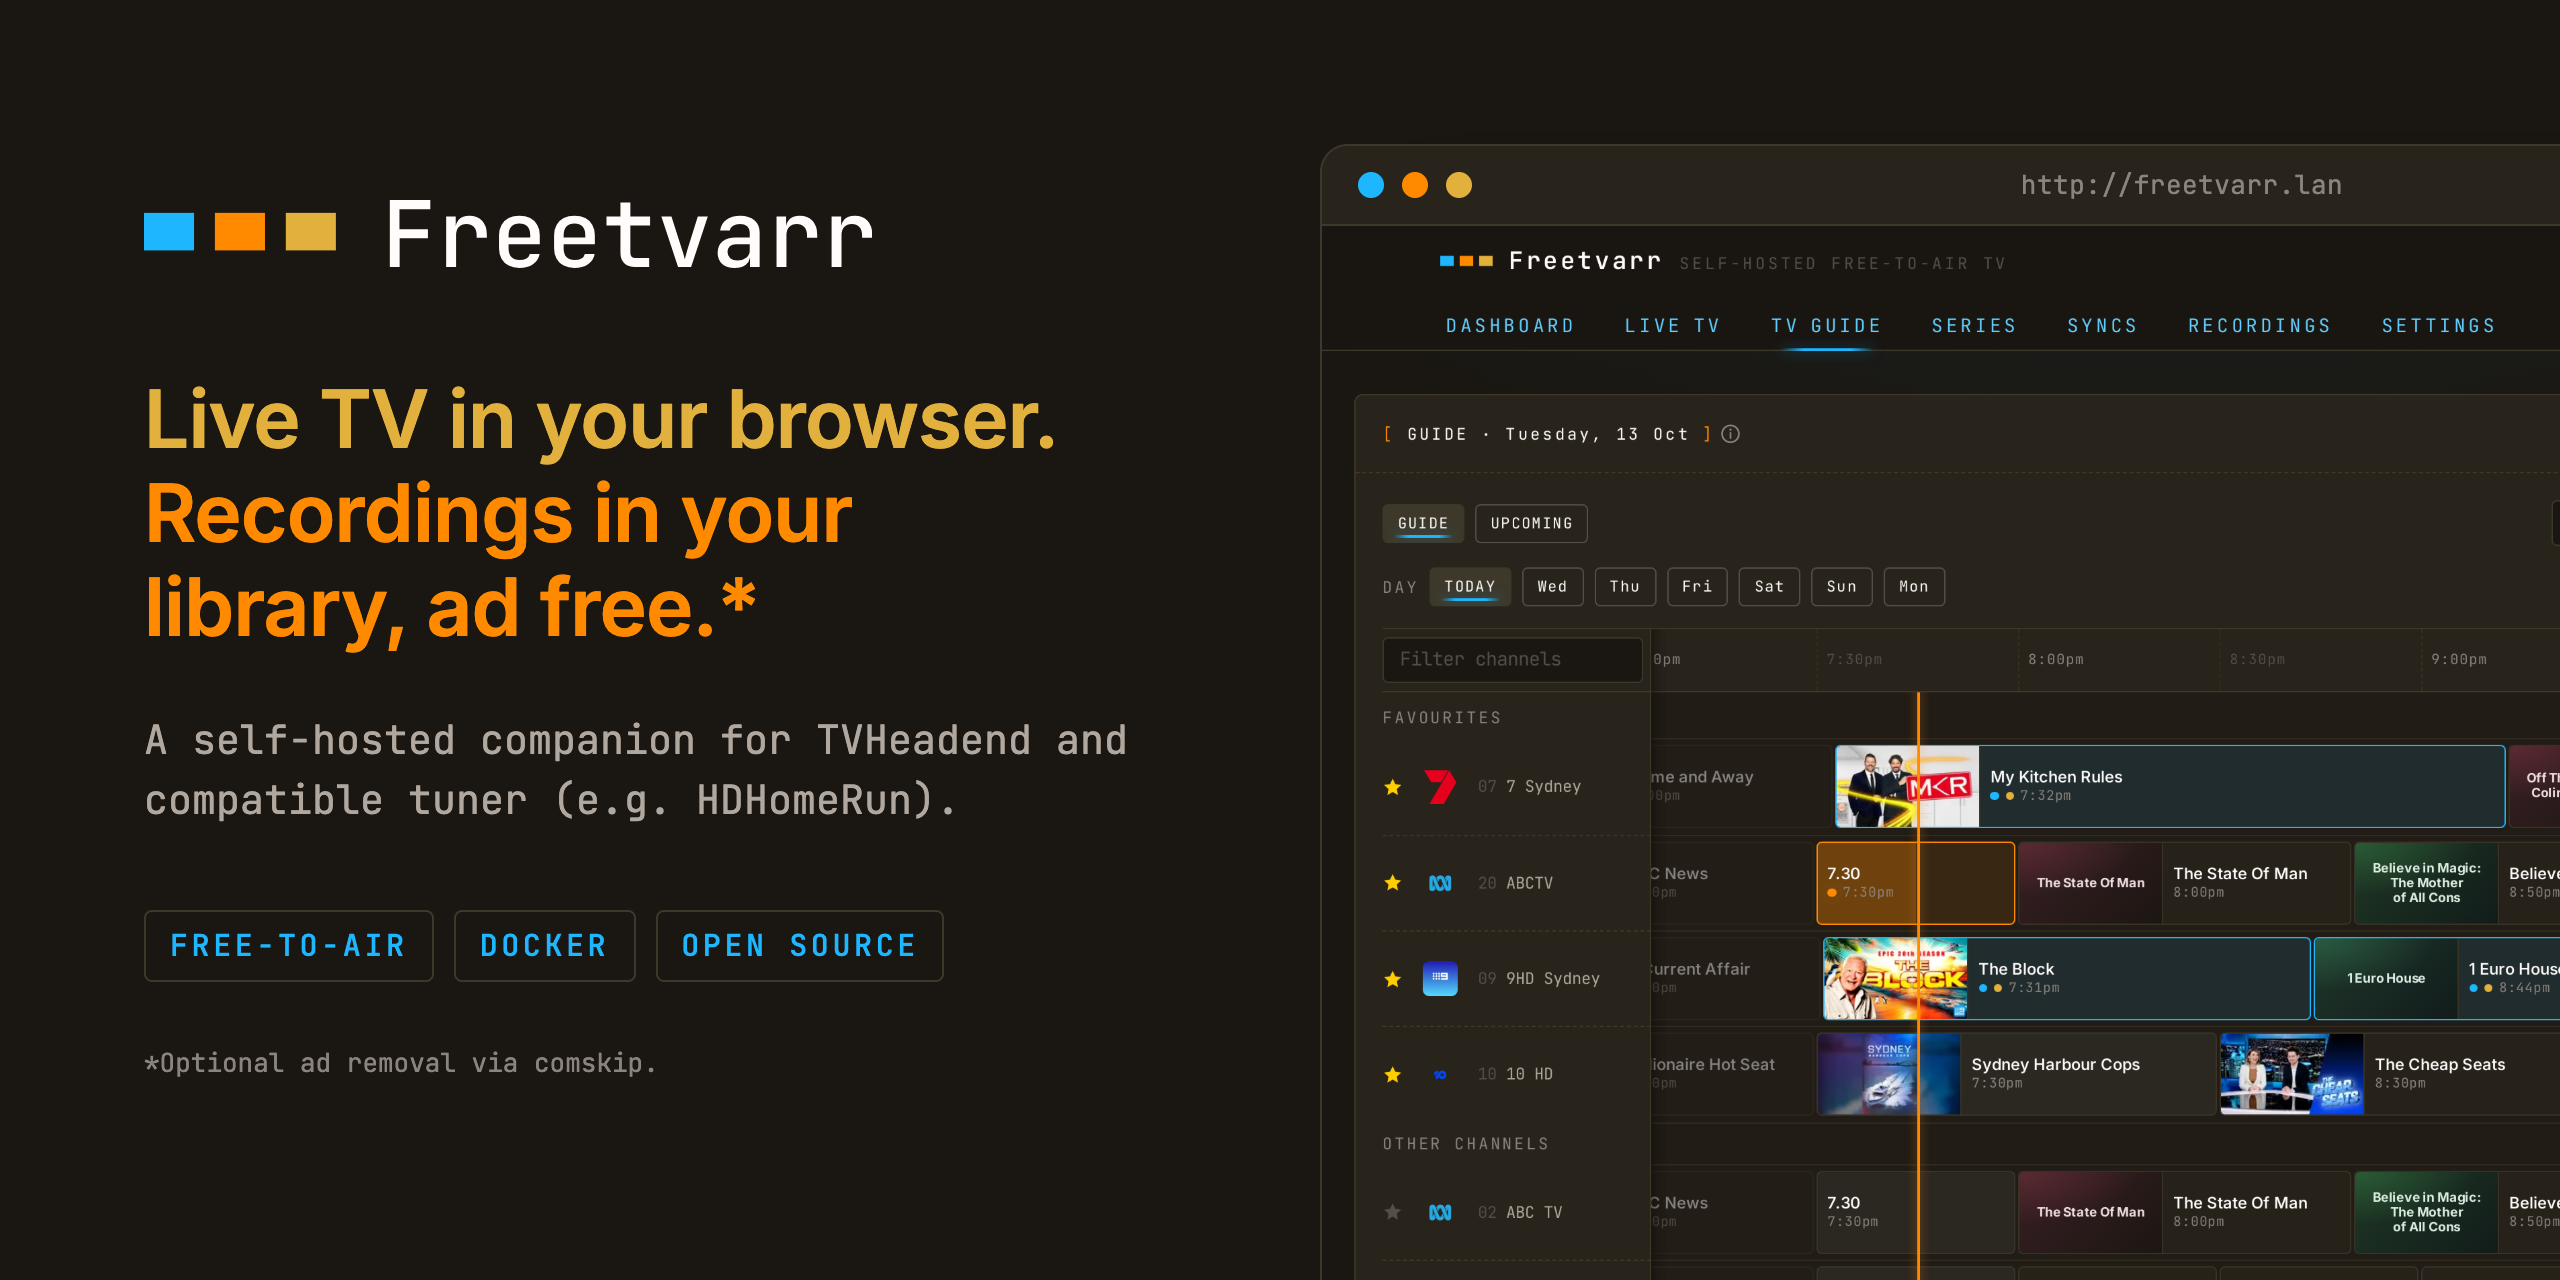
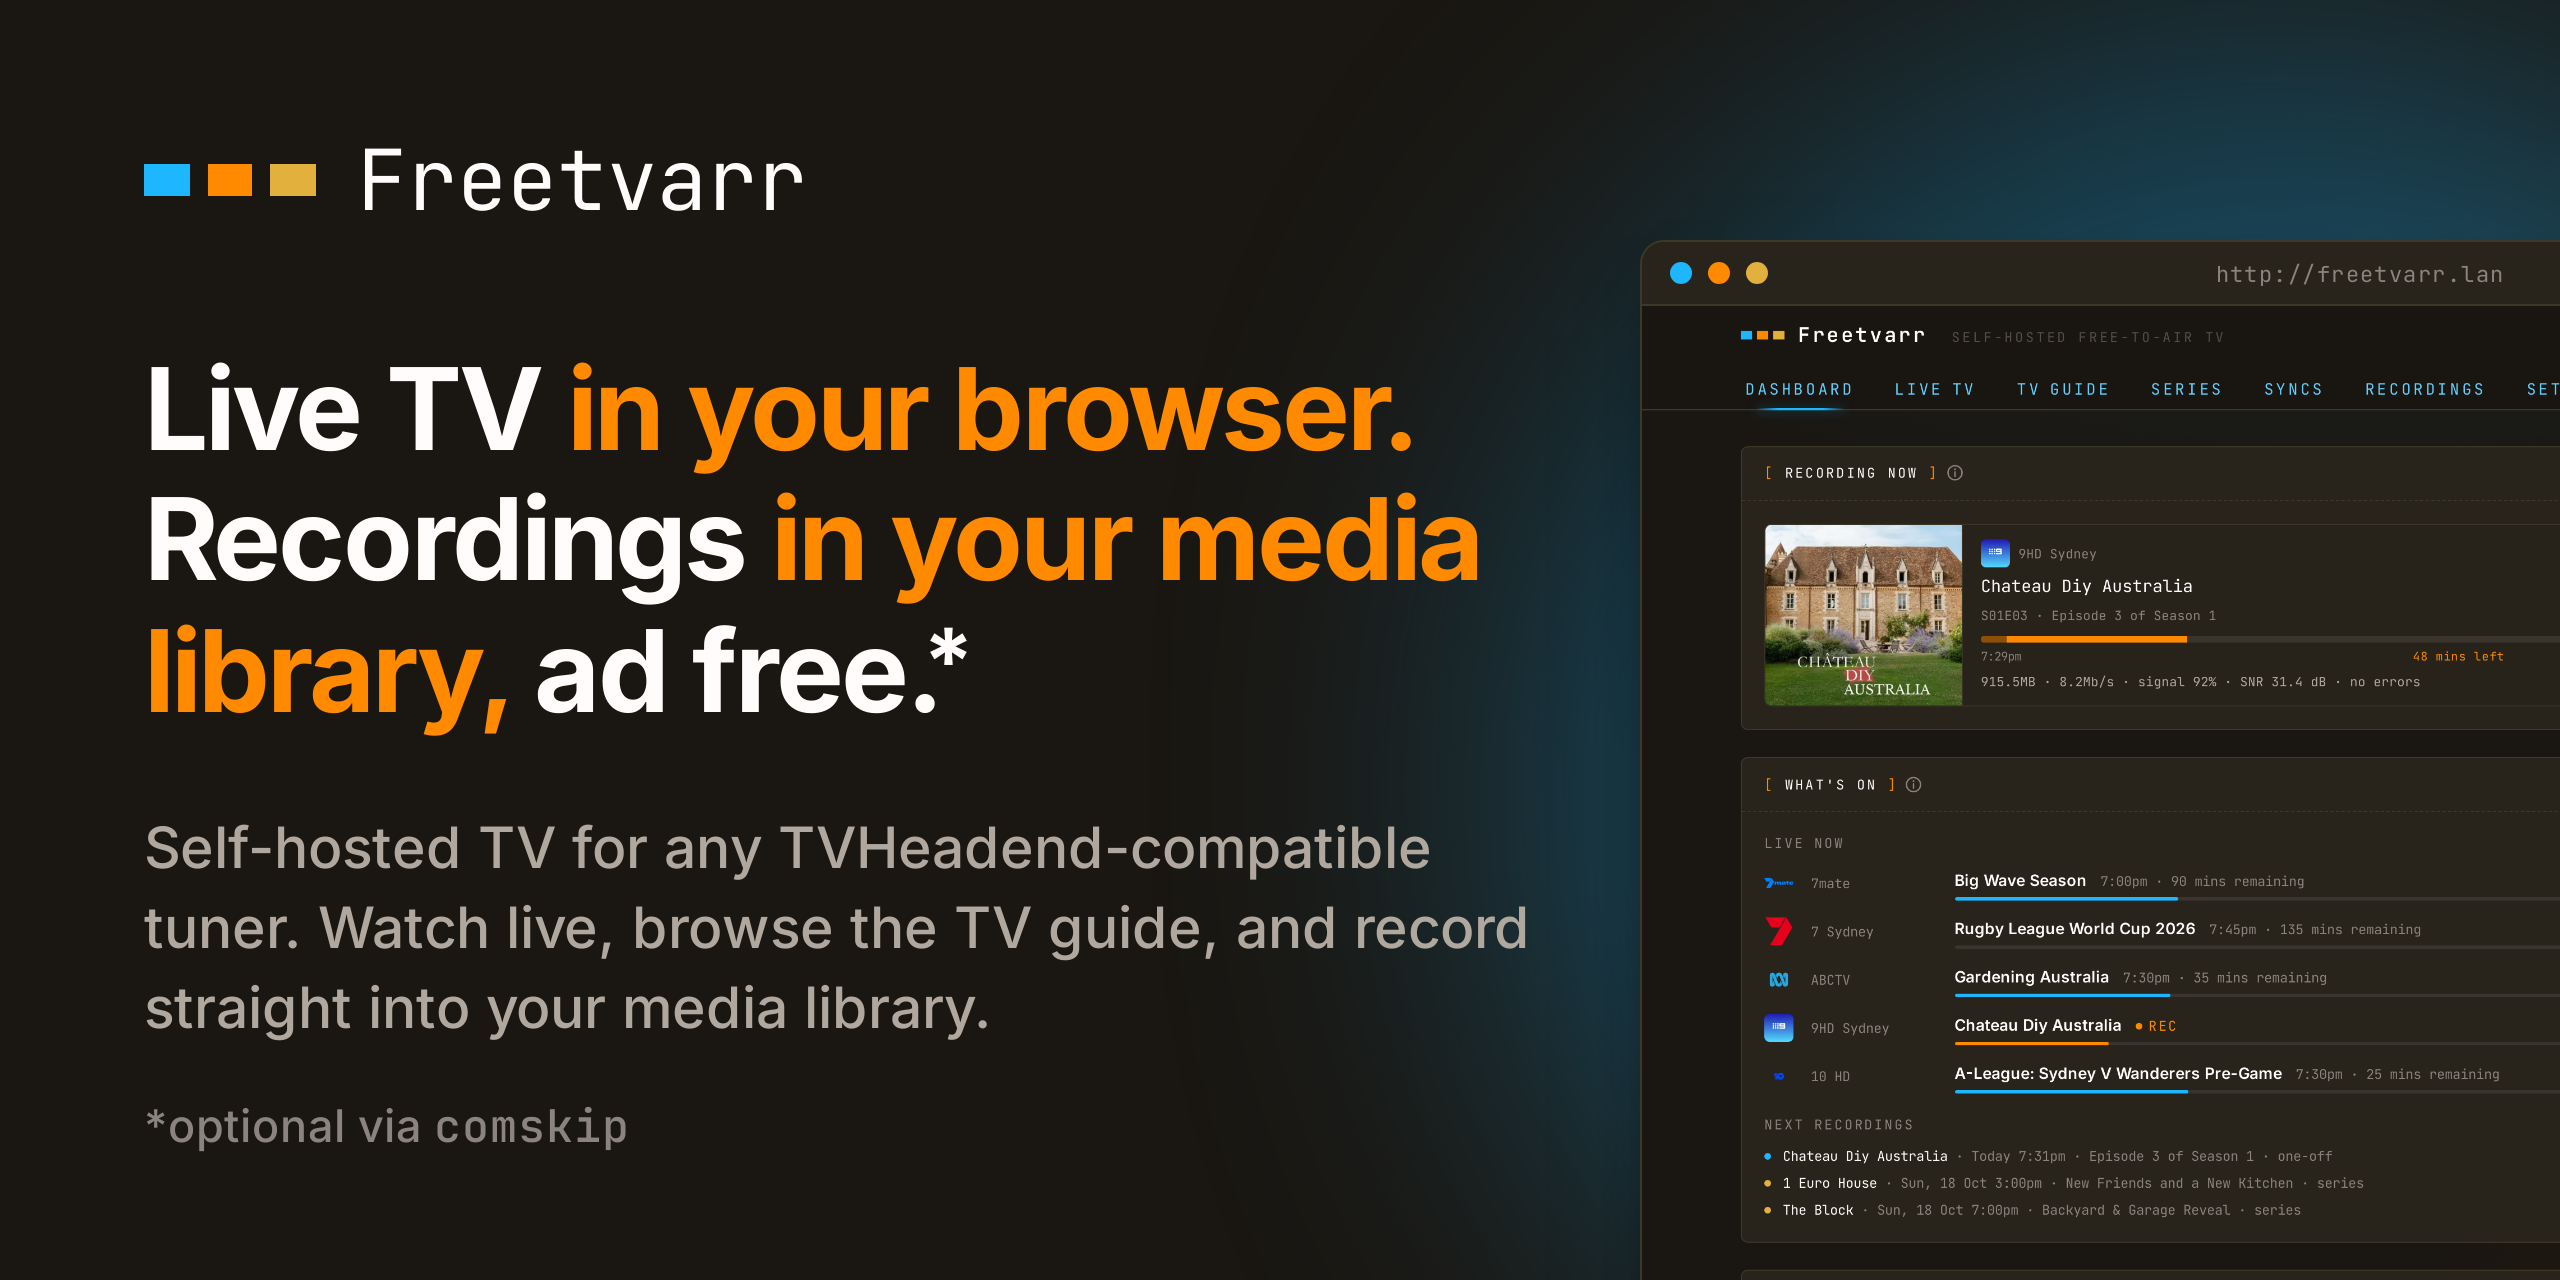
Rebuilt the social share images to match the docs home page with a blue glow, gave Leaving Fetch its own hook card, aligned the site description with the docs tagline, and shifted the docs hero glow from blue at top left to orange at bottom right.

diff --git a/docs/.vitepress/theme/custom.css b/docs/.vitepress/theme/custom.css
@@ -52,10 +52,10 @@
   --vp-home-hero-name-color: var(--vp-c-text-1);
   --hero-line-2: #c25e00;
   --vp-home-hero-image-background-image: linear-gradient(
-    -45deg,
-    rgba(30, 182, 255, 0.45),
-    rgba(255, 138, 0, 0.4) 50%,
-    rgba(226, 176, 60, 0.4)
+    135deg,
+    rgba(98, 207, 255, 0.4),
+    rgba(30, 182, 255, 0.32) 45%,
+    rgba(255, 138, 0, 0.7)
   );
   --vp-home-hero-image-filter: blur(52px);
 }

diff --git a/docs/guide/leaving-fetch.md b/docs/guide/leaving-fetch.md
@@ -5,7 +5,7 @@ description: >-
   free-to-air setup before the Gen 3 Extended Service Levy: save your
   recordings, buy a tuner, and cancel.
 image: /social/leaving-fetch.png
-imageAlt: 'Leaving Fetch TV? Own your free-to-air setup before the levy.'
+imageAlt: 'Leaving Fetch TV? Keep recording free-to-air TV and watching it on your TV. Own your setup before the levy.'
 ---
 
 # Leaving Fetch TV
